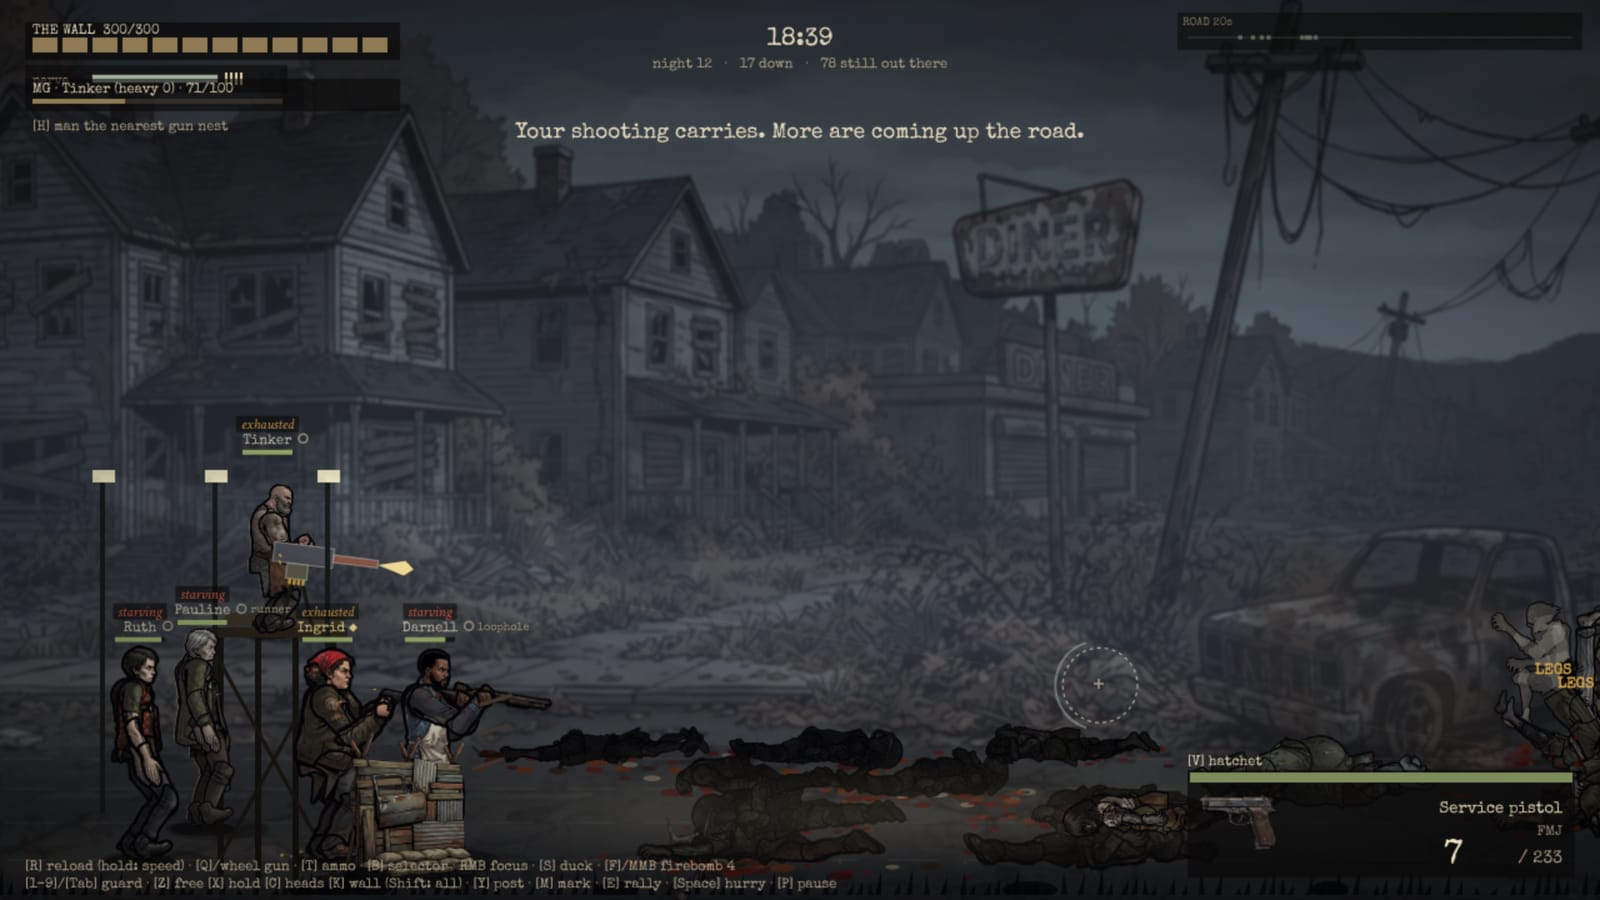
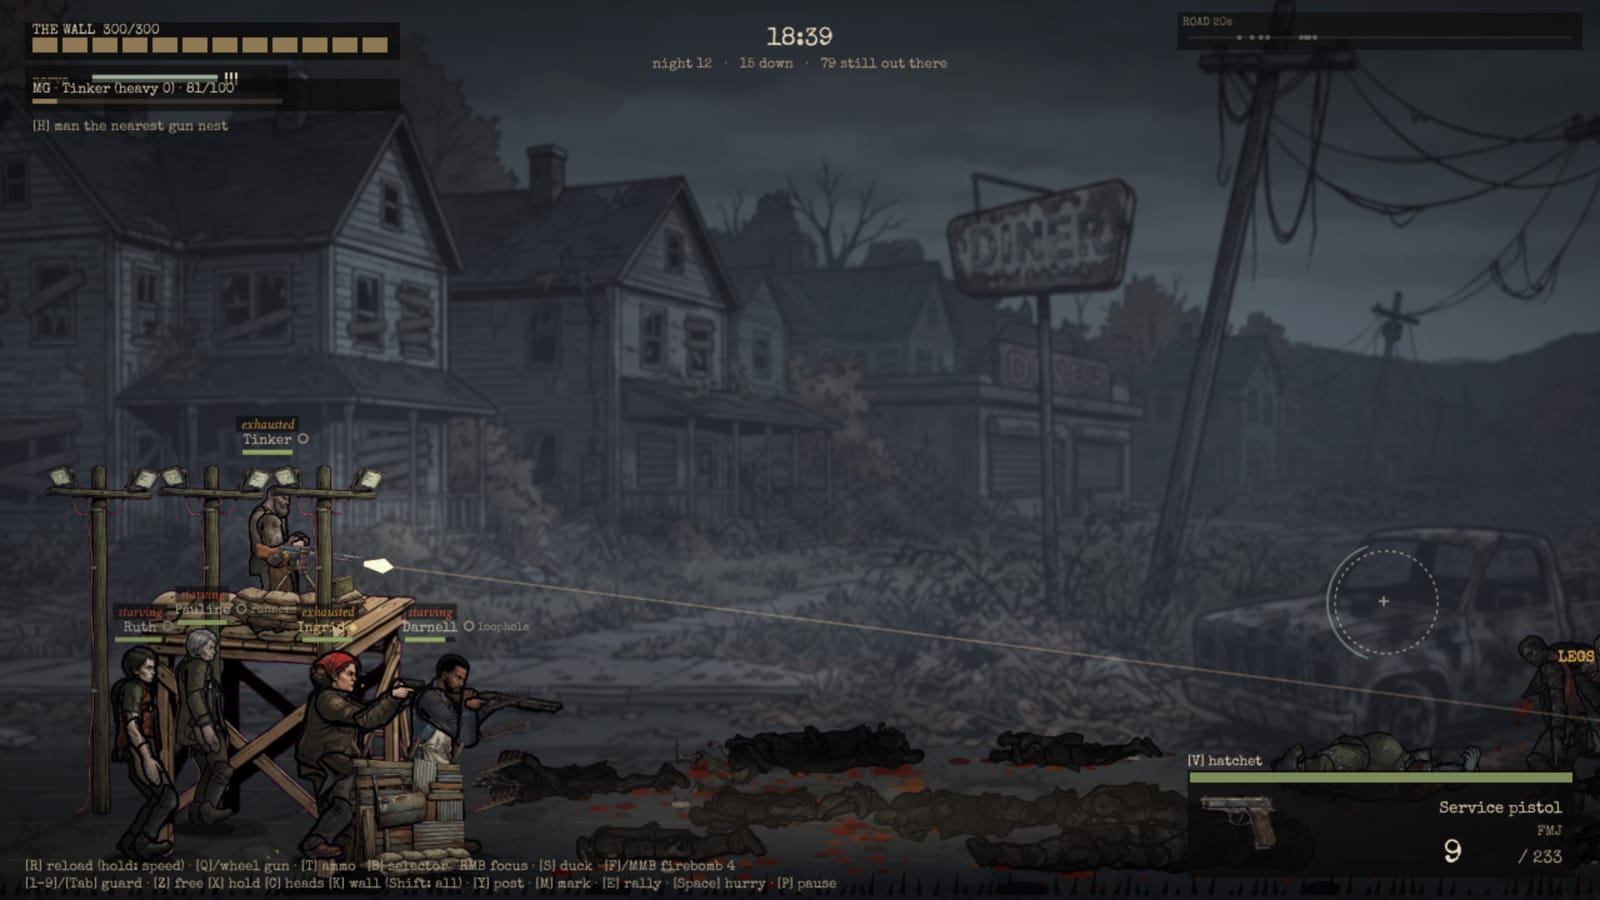
Docs: 11-shooting-poses (stance specs, depth layering, reusable art scheme, references); screenshots night/nest/run refreshed; setWeapon stance override
Claude-Session: https://claude.ai/code/session_01BpmvtS4bsapJPSRAWVjKg6

diff --git a/src/anim/rig.ts b/src/anim/rig.ts
@@ -24,7 +24,7 @@ import {
 import { STYLES, type Style } from './styles';
 import { flipFrame, setTemplateFactory } from './flipbook';
 import { anchorsFor, stanceOf, type WeaponAnchors } from './weaponAnchors';
-import { STANCES, type Slot, type Stance } from './stances';
+import { STANCES, type Slot, type Stance, type StanceId } from './stances';
 
 export type RigKind = 'survivor' | 'turned';
 export interface PlayOpts {
@@ -183,7 +183,8 @@ export class Rig {
   get ready() { return !!this.asset; }
 
   // ------------------------------------------------------------------ public API
-  setWeapon(defId: string | null, opts: { oneHand?: boolean } = {}) {
+  /** Put a weapon in the hands. stance: override the weapon's stance (stances.ts), e.g. 'hip' for an SMG fired from the hip. */
+  setWeapon(defId: string | null, opts: { oneHand?: boolean; stance?: StanceId } = {}) {
     this.weaponId = defId;
     this.oneHand = !!opts.oneHand;
     this.magState = 'gun';
@@ -191,7 +192,7 @@ export class Rig {
     this.gunState = 'held';
     if (!defId) { this.anchors = null; this.gun = null; this.stance = STANCES.free; this.swap = false; return; }
     this.anchors = anchorsFor(defId);
-    this.stance = this.kind === 'survivor' ? STANCES[stanceOf(this.anchors, this.oneHand)] : STANCES.free;
+    this.stance = this.kind === 'survivor' ? STANCES[opts.stance ?? stanceOf(this.anchors, this.oneHand)] : STANCES.free;
     this.swap = this.kind === 'survivor' && this.anchors.hold !== 'melee';
     this.gun = getGun(defId) ?? null;
     if (!this.gun) loadGun(defId).then((g) => { if (this.weaponId === defId) this.gun = g; });

diff --git a/docs/research/11-shooting-poses.md b/docs/research/11-shooting-poses.md
@@ -1,0 +1,162 @@
+# 11 — Shooting poses, depth layering and reusable arm/hand art
+
+Status: implemented in `src/anim/stances.ts` (data), `src/anim/rig.ts` (aim layer, cheek weld, layer
+drawing), the shared hand library `tools/rigs/src/hands_*.png` (cut by `tools/segment.ts`), and checked
+in the anim lab (`animlab.html?closeup&w=service9,ar15,pump,smg,lmg`, `&act=low|walk|fire|reload|tactical`,
+`&at=0..1`, `&only=<ids>`, `&debug`). Follows [09-animation.md](09-animation.md).
+
+## 1. What was wrong
+
+Player feedback: "sprite segmentation and posing is so bad for the humans". Looking at the close-ups and
+`night.jpg` side by side with photos of people shooting:
+
+| Problem | Cause |
+|---|---|
+| The support hand was on the near side reaching over the gun; the trigger hand sat on the far side | The rig drew the character's **left** side (`09` §2 said "the viewer sees the character's left side"). A right-facing body seen by our camera shows its **right** side, so a right-handed shooter's trigger arm is the near one. |
+| Legs pinched together, knees bent the same way | No stance: the idle foot spread was ±6 rig units, near foot forward. |
+| Upright torso, head upright and level | Aim layer leaned 0.2·aim and turned the head by the aim only. |
+| Stock floating near the armpit, face behind the gun or the hand | Butt pocket placed 5 units above the shoulder *joint*; no cheek weld. |
+| Odd fist-like hands, mismatched per survivor; raiders had no hand poses | 13 per-survivor hand sheets of varying quality; raiders reused the open riga hand. |
+| Bolt worked by the support hand | Clip roles. |
+
+## 2. Real-world reference (side profile, right-handed shooter)
+
+Downloaded for study only (public domain US government photos, Wikimedia Commons; **not** in the repo):
+- Shotgun, cheek weld, seen from the right — [Image 2 of 11](https://commons.wikimedia.org/wiki/File:200617-M-BH464-1479_-_SRT_Marines_qualify_on_multiple_weapons_(Image_2_of_11).jpg)
+- Rifle while moving, aiming / low-ish ready — [Image 8 of 11](https://commons.wikimedia.org/wiki/File:200617-M-BH464-1240_-_SRT_Marines_qualify_on_multiple_weapons_(Image_8_of_11).jpg), [Image 6 of 11](https://commons.wikimedia.org/wiki/File:200617-M-BH464-1286_-_SRT_Marines_qualify_on_multiple_weapons_(Image_6_of_11).jpg)
+- Pistol, two hands, arms extended — [Image 4 of 11](https://commons.wikimedia.org/wiki/File:200617-M-BH464-1413_-_SRT_Marines_qualify_on_multiple_weapons_(Image_4_of_11).jpg), [Image 3 of 11](https://commons.wikimedia.org/wiki/File:200617-M-BH464-1449_-_SRT_Marines_qualify_on_multiple_weapons_(Image_3_of_11).jpg)
+- Shotgun reload, gun at the hip, shell at the port — [Image 1 of 11](https://commons.wikimedia.org/wiki/File:200617-M-BH464-1493_-_SRT_Marines_qualify_on_multiple_weapons_(Image_1_of_11).jpg)
+- M16 from behind-right (support arm under the handguard, trigger elbow down) — [On the line (Image 7 of 7)](https://commons.wikimedia.org/wiki/File:200313-M-MH051-1320_-_On_the_line_(Image_7_of_7).jpg); kneeling M249 — [USMC-120505-M-RO295-006](https://commons.wikimedia.org/wiki/File:USMC-120505-M-RO295-006.jpg)
+
+Stance texts:
+- Rifle standing: feet about shoulder width, both toes toward the target, strong-side foot a few inches
+  (≈15 cm) behind the weak one; lean into the rifle ([Iowa Sportsman, 5 fundamentals](https://iowasportsman.com/?p=2952871),
+  [Art of Manliness, how to shoot a rifle](https://www.artofmanliness.com/skills/tactical/how-to-shoot-a-rifle/)).
+  Bladed vs squared is a trade-off: bladed = precision, squared/"athletic" = recoil and tracking.
+- Cheek weld: the same spot on the stock every shot; eye relief comes from the weld; the stock length is
+  set so the head sits naturally ([Army study guide, 4 fundamentals](https://armystudyguide.com/content/army_board_study_guide_topics/m16a2/four-fundamentals-of-mark.shtml),
+  [NRA Women, head position](https://nrawomen.com/content/fixing-fundamentals-head-position-for-any-firearm-platform)).
+  Supported standing: support elbow on/above the hip ([Let's Go Shooting](https://www.letsgoshooting.org/2020/10/08/seven-tips-to-perfecting-the-rifle-standing-position/)).
+- Pistol: isosceles = both arms extended, elbows straight or very slightly bent, feet shoulder width,
+  knees over toes, shoulders over knees, head erect, gun brought up to the eye; Weaver = support foot
+  forward, both elbows bent, support elbow down ~45°, push-pull; Chapman = straight strong arm, bent support
+  ([Gun Digest, evaluating shooting stances](https://gundigest.com/more/how-to/firearm-training/shooting-stances),
+  [Outdoor Empire, 7 pistol stances](https://outdoorempire.com/?p=11530)).
+
+What the photos add (the things a side view must show):
+1. From the right side the trigger hand and forearm are **in front of** the gun; the elbow points down and
+   a little out, the upper arm drops ~40–60° below horizontal from the shoulder.
+2. The support forearm runs **under** the gun (in front of the chest, behind the gun); the support hand
+   wraps the fore-end and its fingers show **in front of** the fore-end; the upper arm is hidden by the torso.
+3. The stock covers the jaw; the face is above it, the head turned down ~0.3–0.4 rad; the trigger hand sits
+   under and just in front of the chin. The bore is at about collar height, not above the shoulder.
+4. The torso leans forward 10–20° (nose over toes); the shotgun shooter leans most.
+5. Pistol: the strong arm reaches out at eye level, the support arm is almost entirely behind it; only the
+   support fingers show under the trigger guard.
+6. Moving: shorter stride, knees bent, the muzzle dips (low ready) unless engaging.
+7. Shotgun reload: gun lowered and canted at the hip, port up, shell hand under the receiver.
+
+## 3. How 2D side-view games do it
+
+- **Metal Slug** (SNK): one-handed pistol arm on the near side; the heavy machine gun is held at the hip
+  with both arms in front of the body, far arm hidden; upper and lower body are separate animations so the
+  legs run while the torso shoots ([wiki](https://metalslug.fandom.com/wiki/Heavy_Machine_Gun), sprite rips on
+  [The Spriters Resource](https://www.spriters-resource.com/neo_geo_ngcd/ms)).
+- **Side-view run'n'gun pixel art** (Slynyrd, [Pixelblog 60](https://www.slynyrd.com/blog/2026/1/26/side-view-run-n-gun)):
+  legs separate from the upper body; the gun cycles reuse the walk/run with the arms removed and redrawn
+  holding the gun; the long gun is carried muzzle-down ("downward from her centre") when not shooting.
+- **Broforce / Soldat / Superfighters Deluxe**: limbs and gun as separate sprites rotated toward the aim;
+  the gun arm is drawn over the body, the off arm behind (general approach also described in
+  [html5gamedevs: arm rotating to the mouse](https://www.html5gamedevs.com/topic/21626-making-the-arms-of-a-sprite-rotate-towards-your-mouse-position/),
+  [GDevelop: composite player](https://forum.gdevelop.io/t/whats-the-best-way-to-create-a-composite-player-player-made-of-multiple-sprites/71848)).
+- **Darkest Dungeon** (Spine cutout): every part on its own layer, draw order = slot order; generous round
+  overlaps at joints ([Spine: how to cut your assets](https://en.esotericsoftware.com/blog/How-to-cut-your-assets-for-animation)).
+  Draw order can need to change per pose — we make it per stance data.
+- **Layer order vs facing**: a flipped sprite can't swap which arm is in front; games either keep separate
+  art per facing or accept the mirrored (left-handed) look ([UE forum](https://forums.unrealengine.com/t/sprite-layering-issue-from-camera/1379531)).
+  We mirror: a left-facing raider reads as a left-hander, which nobody notices in a crowd.
+- **Rain World / Overgrowth**: procedural IK and few keys (already in `09`).
+
+## 4. Pose spec (as implemented, `src/anim/stances.ts`)
+
+Rig units: 240 = body height (≈133 per metre); L = leg length (~104); angles in radians, aim angle a > 0 = down.
+
+| Stance (weapons) | Feet near / far (×L from pelvis) | Pelvis height (×L) | Lean (+share of a) | Head | Gun placement | Low ready |
+|---|---|---|---|---|---|---|
+| `rifle` (AR, carbine, rifles, lever, crossbow) | −0.20 / +0.24 | 0.955 | 0.12 + 0.25a | cheek weld, ≤ +0.36 chin-down then the gun rises | butt 3 below / 1 ahead of the neck base, butt→muzzle line on the target | stock stays in the shoulder (6 lower), muzzle to +0.8 |
+| `shotgun` (pump, auto, coach, .410, pipe, 40 mm) | −0.22 / +0.25 | 0.945 | 0.16 + 0.25a | cheek weld | as rifle | as rifle |
+| `smg` (SMG, nailer) | −0.20 / +0.24 | 0.955 | 0.14 + 0.25a | cheek weld | butt 2 below the neck | as rifle |
+| `hip` (LMG) | −0.26 / +0.26 | 0.93 | 0.24 + 0.15a | 0.4a, no weld | butt 50 below the neck, 10 ahead (under the arm) | muzzle to +0.45 |
+| `pistol` (2-handed) | −0.14 / +0.16 | 0.965 | 0.12 + 0.2a | 0.45a, erect | grip 0.94 of arm reach from the near shoulder along a, lifted 9 toward the eye line | out and down to +0.75, reach −18% |
+| `pistol1` | −0.12 / +0.14 | 0.97 | 0.08 + 0.15a | 0.45a | 0.97 reach | +0.8 |
+| `bow` | −0.16 / +0.18 | 0.97 | 0.04 | 0.6a | bow hand = far arm at 0.93 reach | +0.5 |
+| `tube` (LAW) | −0.20 / +0.24 | 0.955 | 0.1 + 0.2a | 0.6a | butt 2 above the neck, on the shoulder | +0.35 |
+
+Elbows: the arms are 2-bone IK with the elbow-down solution, so the trigger elbow hangs below the grip and
+the support elbow under the fore-end; the support hand slides back along the fore-end until its arm can
+bend (reach × 0.86). Recoil: torso lean −0.009…−0.014 per recoil unit and the pelvis 0.12–0.3 back (feet
+planted) plus the gun's own kick along its axis. Low ready blends in when not aiming, or when walking and
+no shot was fired for 1.2 s; firing brings the gun straight up. The stance's feet and pelvis height are
+weighted by `1 − moving` so walking uses the gait.
+
+Cheek weld (`Rig.cheekWeld`): the comb line is the bore direction through the stock's top edge, measured
+from each icon at load (`assets.ts combOf`: the highest top edge in the middle of butt→grip). A cheek point
+on the head (0.22 up the head bone, 0.3 forward) is bisected onto it by turning the head about the neck in
+[−0.2, +0.36]; what the head can't reach, the gun is lifted by.
+
+Reloads: `ready` moves the gun to the chest workspace (half the torso up, 22 forward), muzzle canted up by
+the clip's `gunTilt` (base 0.12 rad); the stance's legs stay planted. Bolt guns are worked by the trigger
+hand (`reloadBolt`, `boltCycle` on role `f`, the round in the trigger hand), the lever by the trigger hand;
+mags, shells and the pump stay with the support hand.
+
+## 5. Depth layering (right-facing; camera sees the right side)
+
+Roles vs sides: clips address hands by role (`n` = support, `f` = trigger). With a firearm, `Rig.swap`
+solves role `n` on the far arm and role `f` on the near arm. Bare-handed / melee keep role `n` on the near
+(right) arm, so the hatchet swings in the right hand.
+
+| Order (back → front) | long guns (`rifle`, `shotgun`, `smg`, `hip`, `tube`) | `pistol`, `pistol1` | `bow` | bare / melee |
+|---|---|---|---|---|
+| 1 | far leg (dark) | far leg | far leg | far leg |
+| 2 | far upper arm (dark) | far upper arm | far upper arm | far upper arm, far forearm |
+| 3 | slung gun | slung gun | — | slung gun |
+| 4 | torso | torso | torso | torso, head |
+| 5 | near leg | near leg | near leg | near leg |
+| 6 | head | head | head | — |
+| 7 | far forearm (under the gun) | far forearm, far (support) hand | far forearm | gun |
+| 8 | **gun** | **gun** | bow | far hand (dark) |
+| 9 | far hand on the fore-end (dark) | — | bow hand, string | string |
+| 10 | near arm contact shadow, near upper arm, forearm | same | same | same |
+| 11 | near (trigger) hand + props | same | drawing hand | near hand, melee weapon |
+
+The far limbs reuse the near art pre-darkened (`#14110f` at 42%, the cheap per-part tint). The table is the
+`layers` array of each stance — a new class is one line of data.
+
+## 6. Reusable art scheme and counts
+
+| Asset | Before | After |
+|---|---|---|
+| Body (head, torso, pelvis, legs, near arm) | 1 "rig pose" image per survivor (13) + raiders (2) | unchanged: **1 image per character**; the arm-forward rig pose already separates the near arm from the torso, the far arm reuses it darkened, the chest behind it is inpainted |
+| Hands | 13 per-survivor sheets of 6 poses (raiders: none) | **4 shared library sheets** (`hands_light`, `hands_medium`, `hands_dark`, `hands_glove`), 5 poses each: trigger grip (index along the frame), support cup, open, fist, pinch |
+| Per-survivor hand recolour | — | `hands: { lib, tint?, tintA?, bright? }` in `tools/rigs/<id>.json` (skin tone tint baked by `segment.ts`) |
+| Weapons | shared icons | shared icons (+ comb measured at load) |
+| Per-pose / per-weapon art | none | none: poses are stance data + IK |
+
+Total sprite sources: 15 bodies + 4 hand sheets = 19 images for 15 characters × 9 stances × 26 guns
+(was 28). The library sheets are drawn wrist-left so `segment.ts` finds each pose's wrist, tip and grip
+point itself (`libPoses`): grip = the curled fingers of the trigger hand, the cup of the support hand, the
+thumb-index point of the pinch (the art's cartridge is erased; the rig draws its own round/shell/mag).
+Generation: `npx tsx tools/gen-parts.ts --manifest=tools/sprites-parts-hands.json` (style reference
+`surv_rifle`), 4 × $0.034 = **$0.14**. Adding a survivor now costs one rig-pose image and a joint JSON
+naming a hand library.
+
+## 7. Verification
+
+`animlab.html?closeup&still&h=150&w=service9,ar15,pump,smg,lmg` (every survivor × 5 classes),
+`&act=reload&at=…`, `&act=walk`, `&act=low`; in-game `docs/screenshots/night.jpg`, `nest.jpg`, `run.jpg`
+(`node tools/e2e/shots.cjs night nest run`). Compared side by side against the reference photos above.
+
+Known limits: one arm art per character (the far arm is the near arm darkened, so a sleeve patch shows on
+both); left-facing bodies are mirrored (read as left-handers); no kneeling stance yet (the duck clip
+crouches on the stance's feet); the support hand is drawn over the fore-end even during reloads, for
+readability.

diff --git a/docs/research/09-animation.md b/docs/research/09-animation.md
@@ -60,17 +60,22 @@ Per frame, `Rig.update(dt)`:
 5. **Solve** — legs: 2-bone IK, knee forward. Arms: 2-bone IK to the hand target (elbow-down
    solution; elbow-up for crawling), hand art rotation from the target; else FK.
 
-Draw order (facing right; the viewer sees the character's left side): far leg, far arm (dark), slung
-gun, torso, head, near leg, gun, far (trigger) hand + its prop, contact shadow of the near arm,
-near arm, magazine/shell/speedloader in the near hand, near hand, melee weapon, hit flash, props
-(dropped mags, casings, shells). Far limbs reuse the near limb art pre-darkened.
+Draw order: per stance, as data (`src/anim/stances.ts`; see [11-shooting-poses.md](11-shooting-poses.md)).
+Facing right, the viewer sees the character's **right** side: with a firearm the trigger arm is the near
+one, drawn over the gun, and the support arm is the far one (upper arm behind the torso, forearm under the
+gun, hand on the fore-end). Bare-handed / melee: far leg, far arm, slung gun, torso, head, near leg, far
+hand, near arm, near hand, melee weapon. Then hit flash and props (dropped mags, casings, shells). Far
+limbs reuse the near limb art pre-darkened. (Superseded: the first version drew the left side, with the
+support hand on the near arm.)
 
 ## 3. Data formats
 
 **Rig source** `tools/rigs/<id>.json` (hand-authored, ~15 joints in source-image pixels):
 `{ id, source, height, joints: {headTop, neck, shoulder, elbow, wrist, handTip, pelvis, hip, knee,
 ankle, toe, bHip, bKnee, bAnkle, bToe}, radius?: {part: fraction}, force?: [{part, poly}],
-fillMaxX?, hands?: {source, refPose, scale?, poses: {grip|support|open|fist|pinch: {index, wrist, tip, grip}}} }`.
+fillMaxX?, hands?: {lib: 'light'|'medium'|'dark'|'glove', tint?, tintA?, bright?, len?} }` — hands come
+from the shared library `tools/rigs/src/hands_<lib>.png` (11 §6); the older per-sheet form
+`{source, refPose, poses: {…: {index, wrist, tip, grip}}}` still works.
 
 **Part atlas** `public/sprites/parts/<id>.png` + `.json` (written by `tools/segment.ts`):
 `{ id, height: 240, ground, joints (rig units, relative to pelvis), parts: { name: {x,y,w,h, px,py
